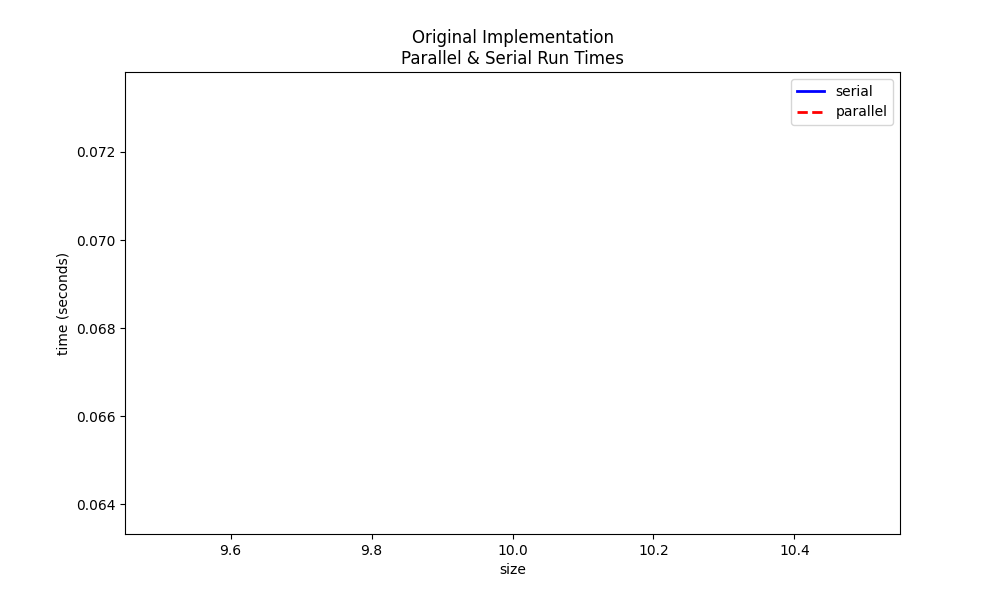
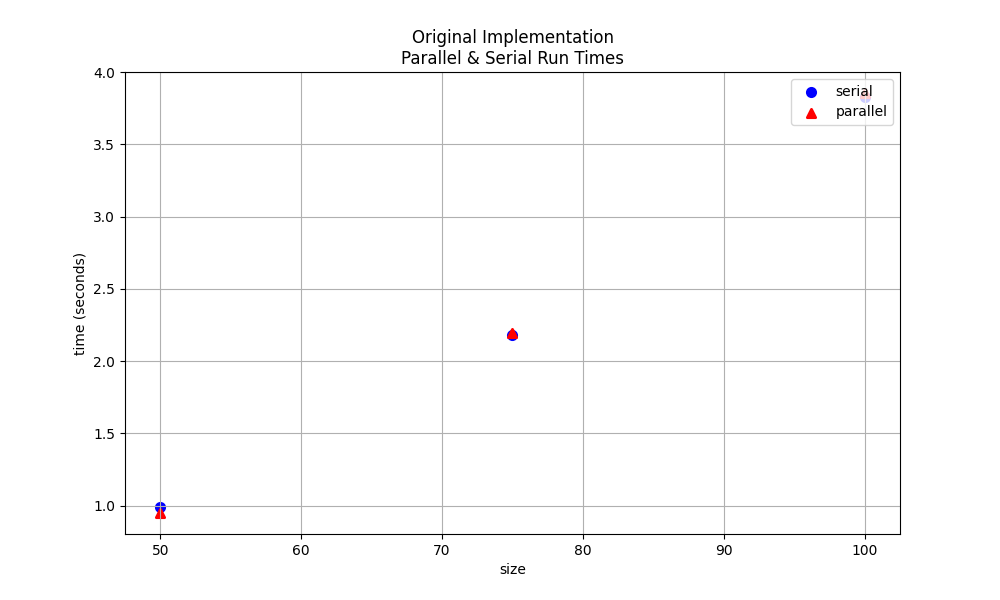
plotting updates

diff --git a/benchmarking/gol_benchmarking.py b/benchmarking/gol_benchmarking.py
@@ -12,8 +12,7 @@ import time
 # Constants
 gol_phases = ["dead", "alive"]
 num_steps = 100
-sizes = [10, 100, 1000]
-sizes = [10]
+sizes = [50, 75, 100]
 num_trials = 3
 
 
@@ -78,14 +77,14 @@ if __name__ == "__main__":
     parallel_df.to_csv(path_or_buf=output_file_path, index=False)
 
     logger.info("Data aggregation")
-    serial_df = serial_df.groupby(by=["size", "num_steps"]).agg({"time (seconds)": np.mean})
-    parallel_df = parallel_df.groupby(by=["size", "num_steps"]).agg({"time (seconds)": np.mean})
+    serial_df = serial_df.groupby(by=["size"]).agg({"time (seconds)": np.mean})
+    parallel_df = parallel_df.groupby(by=["size"]).agg({"time (seconds)": np.mean})
 
     logger.info("Plotting")
     plt.figure(figsize=(10, 6))
 
-    plt.plot(sizes, serial_df["time (seconds)"], label="serial", color='blue', linestyle='-', linewidth=2)
-    plt.plot(sizes, parallel_df["time (seconds)"], label="parallel", color='red', linestyle='--', linewidth=2)
+    plt.scatter(sizes, serial_df["time (seconds)"], label="serial", color='blue', linestyle='-', marker='o', linewidth=2)
+    plt.scatter(sizes, parallel_df["time (seconds)"], label="parallel", color='red', linestyle='-', marker='^', linewidth=2)
 
     plt.xlabel("size")
     plt.ylabel("time (seconds)")
@@ -94,9 +93,9 @@ if __name__ == "__main__":
     plt.legend(loc="upper right")
 
     output_file = "parallel_serial_original.png"
-    plt.savefig(output_file)
 
     plt.grid(True)
- 
+    plt.savefig(output_file)
+
     logger.info(f"Plot saved as '{output_file}'")
 
